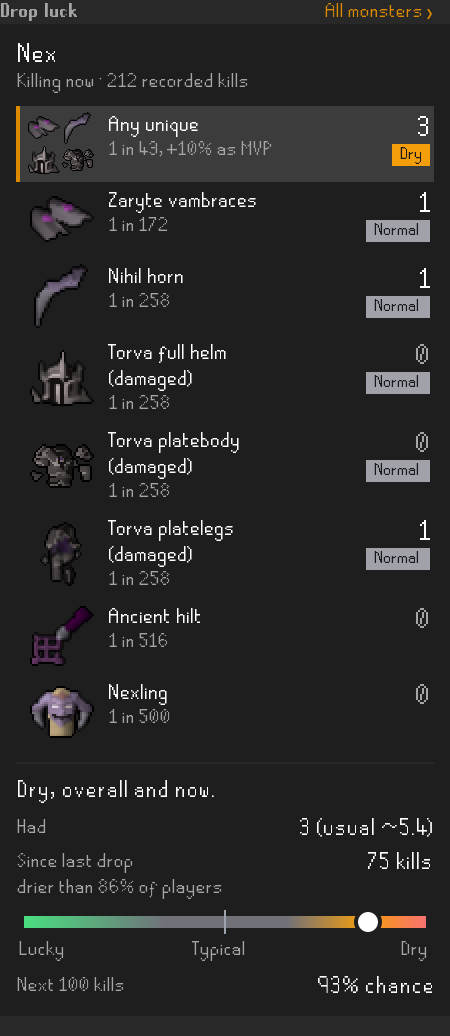
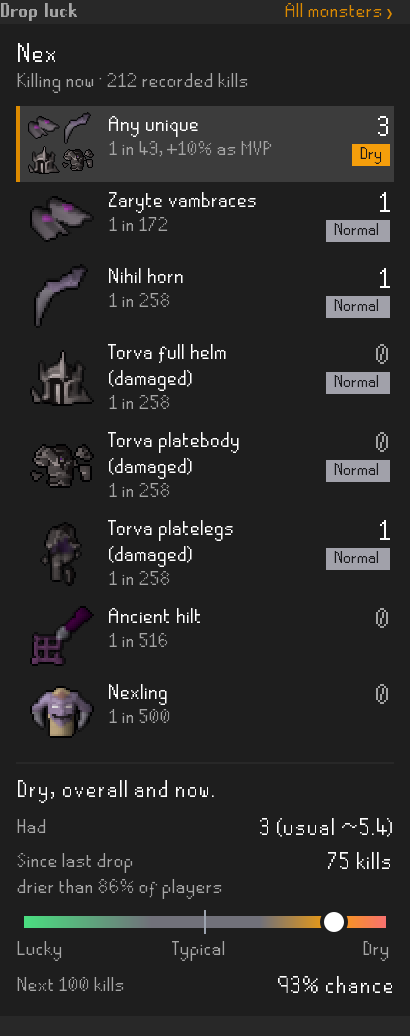
Paint the README's Drop luck picture at the sidebar's real width
The picture renderer painted a section alone at 225px, the width of
the whole sidebar, though a section sits inside the sidebar's 10px
insets and has 205px in the game. The Drop luck picture was 20px wider
than any player's card, which is why it could not show the rows being
cut off.

The renderer now paints the Drop luck card at 205px, and the README's
picture of Nex is painted again with it and shown at 273px, the scale
its other pictures have, so its words are the size of theirs. What it
says is unchanged. Only this scene moves: the other section scenes are
still painted at 225px, as the record says, until their pictures are
painted again and looked at.

diff --git a/docs/review-evidence/sidebar-polish-2026-10-29/SidebarPolishShot.java b/docs/review-evidence/sidebar-polish-2026-10-29/SidebarPolishShot.java
@@ -98,7 +98,7 @@ public class SidebarPolishShot
 				? (JComponent) get(panel[0], "slayerPanel") : state.equals("quest-route")
 				? (JComponent) get(get(panel[0], "nowCards"), "destinationSlot") : state.equals("slayer-blocked")
 				? (JComponent) get(panel[0], "slayerPanel") : state.equals("port-tasks-card") || state.equals("port-tasks-unread") || state.startsWith("port-run")
-				? (JComponent) get(panel[0], "portTasksPanel") : panel[0], args[0] + "/" + state + ".png")));
+				? (JComponent) get(panel[0], "portTasksPanel") : panel[0], args[0] + "/" + state + ".png", width(state))));
 		}
 		System.exit(0);
 	}
@@ -956,22 +956,38 @@ public class SidebarPolishShot
 
 	/* ---- Painting ---- */
 
+	/**
+	 * The width a scene is painted at. The whole panel is the sidebar's 225px, its own 10px insets
+	 * included; a section alone sits inside those insets, 205px. Only the Drop luck card is painted at
+	 * that so far: the other section scenes still paint at 225px, 20px wider than the game gives them,
+	 * until their pictures are painted again and looked at.
+	 */
+	static int width(String state)
+	{
+		return state.equals("dropluck-boss-card") ? net.runelite.client.ui.PluginPanel.PANEL_WIDTH - 20 : 225;
+	}
+
 	static void shoot(JComponent panel, String path) throws Exception
+	{
+		shoot(panel, path, 225);
+	}
+
+	static void shoot(JComponent panel, String path, int width) throws Exception
 	{
 		JPanel holder = new JPanel(new BorderLayout());
 		holder.setBackground(ColorScheme.DARK_GRAY_COLOR);
 		holder.add(panel, BorderLayout.NORTH);
 		int height = Math.max(panel.getPreferredSize().height, 60);
-		holder.setSize(225, height);
+		holder.setSize(width, height);
 		layoutTree(holder);
-		BufferedImage image = new BufferedImage(450, height * 2, BufferedImage.TYPE_INT_RGB);
+		BufferedImage image = new BufferedImage(width * 2, height * 2, BufferedImage.TYPE_INT_RGB);
 		Graphics2D graphics = image.createGraphics();
 		graphics.scale(2, 2);
 		graphics.setRenderingHint(RenderingHints.KEY_TEXT_ANTIALIASING, RenderingHints.VALUE_TEXT_ANTIALIAS_ON);
 		holder.paint(graphics);
 		graphics.dispose();
 		ImageIO.write(image, "png", new File(path));
-		System.out.println(path + " 225x" + height + " preferredWidth=" + panel.getPreferredSize().width);
+		System.out.println(path + " " + width + "x" + height + " preferredWidth=" + panel.getPreferredSize().width);
 	}
 
 	static void layoutTree(Container parent)

diff --git a/docs/review-evidence/readme-2026-11-14.md b/docs/review-evidence/readme-2026-11-14.md
@@ -26,4 +26,23 @@ row not yet had paints with no picture, which the game would not do.
 
 | Picture | Scene | Painted | Was |
 | --- | --- | --- | --- |
-| `sidebar-drop-luck.png` | `dropluck-boss-card`, the card alone | 225×518 | 225×335 |
+| `sidebar-drop-luck.png` | `dropluck-boss-card`, the card alone | 205×518 | 225×518, first painted 225×335 |
+
+## Painted again at the sidebar's width
+
+The first paint of this picture was 225px wide, the width of the whole sidebar. The card sits inside
+the sidebar's 10px insets, so in the game it has 205px, and a review measured rows there that the
+picture could not show: each drop's name and rate were wrapped at one width for every row, wider
+than the room beside a *Normal* or *Very lucky* chip, and cut mid-letter past it. The rows now wrap
+at what the picture and their own count leave, and `SidebarPolishShot` paints `dropluck-boss-card`
+at 205px, 2× into a 410px PNG, with the same command as above. The README shows it 273px wide, the
+scale its 450px pictures have at 300px, so its words are the size of theirs.
+
+Nothing it says changed: in this font every row of the Nex card fitted at 225px and still fits at
+205px, *1 in 43, +10% as MVP* beside the *Dry* chip included. Painted twice, the two were the same
+pixel for pixel, and it was looked at for a cut word, an overlap or a missing sprite, and had none.
+
+Only this scene was moved. The other section scenes — `search-whip-card`, `farm-count`,
+`chart-run`, `slayer-card`, `port-run` and `quest-route`, and `VoyageShot`'s `voyage-sail` — still
+paint at 225px, 20px wider than the sidebar gives them, until their pictures are painted again and
+looked at. The scenes of the whole panel are right at 225px, its insets included.

diff --git a/README.md b/README.md
@@ -152,7 +152,7 @@ dailies you have collected left out of a dailies run.
 ## Drop luck
 
 <p>
-  <img src="docs/mockups/sidebar-drop-luck.png" width="300" alt="Drop luck for Nex after 212 recorded kills: Any unique first, 1 in 43 plus 10% as MVP, three had and marked Dry, then each unique at the wiki's rate, the vambraces, the horn and the platelegs had once and each Normal, and the pet at 1 in 500; under them Dry, overall and now: had 3 where about 5.4 is usual, 75 kills since the last, drier than 86% of players, and a 93% chance in the next 100 kills">
+  <img src="docs/mockups/sidebar-drop-luck.png" width="273" alt="Drop luck for Nex after 212 recorded kills: Any unique first, 1 in 43 plus 10% as MVP, three had and marked Dry, then each unique at the wiki's rate, the vambraces, the horn and the platelegs had once and each Normal, and the pet at 1 in 500; under them Dry, overall and now: had 3 where about 5.4 is usual, 75 kills since the last, drier than 86% of players, and a 93% chance in the next 100 kills">
 </p>
 
 See how lucky or dry you are on the monster you are killing, with sourced drop odds and the chance
